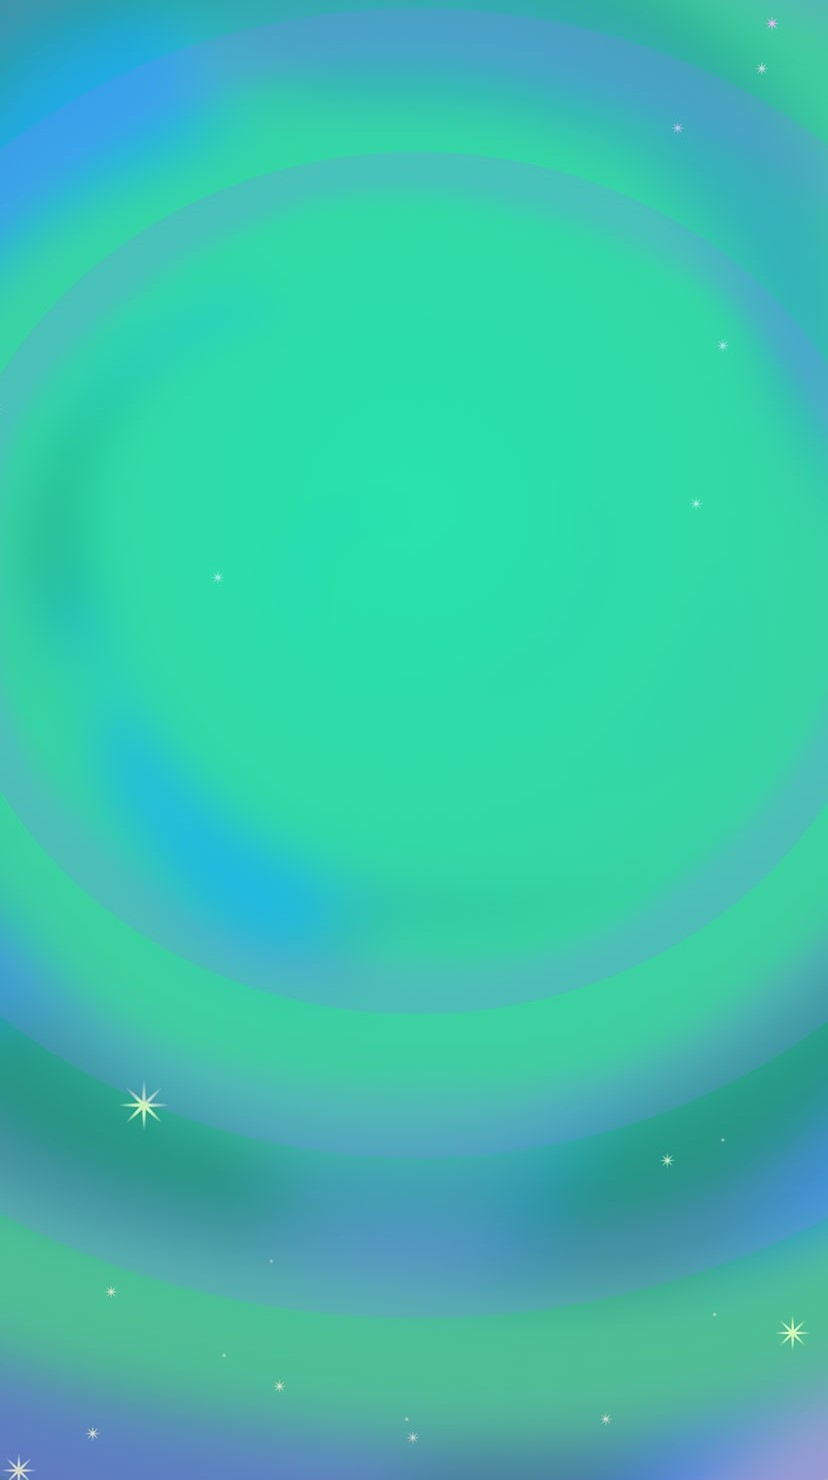
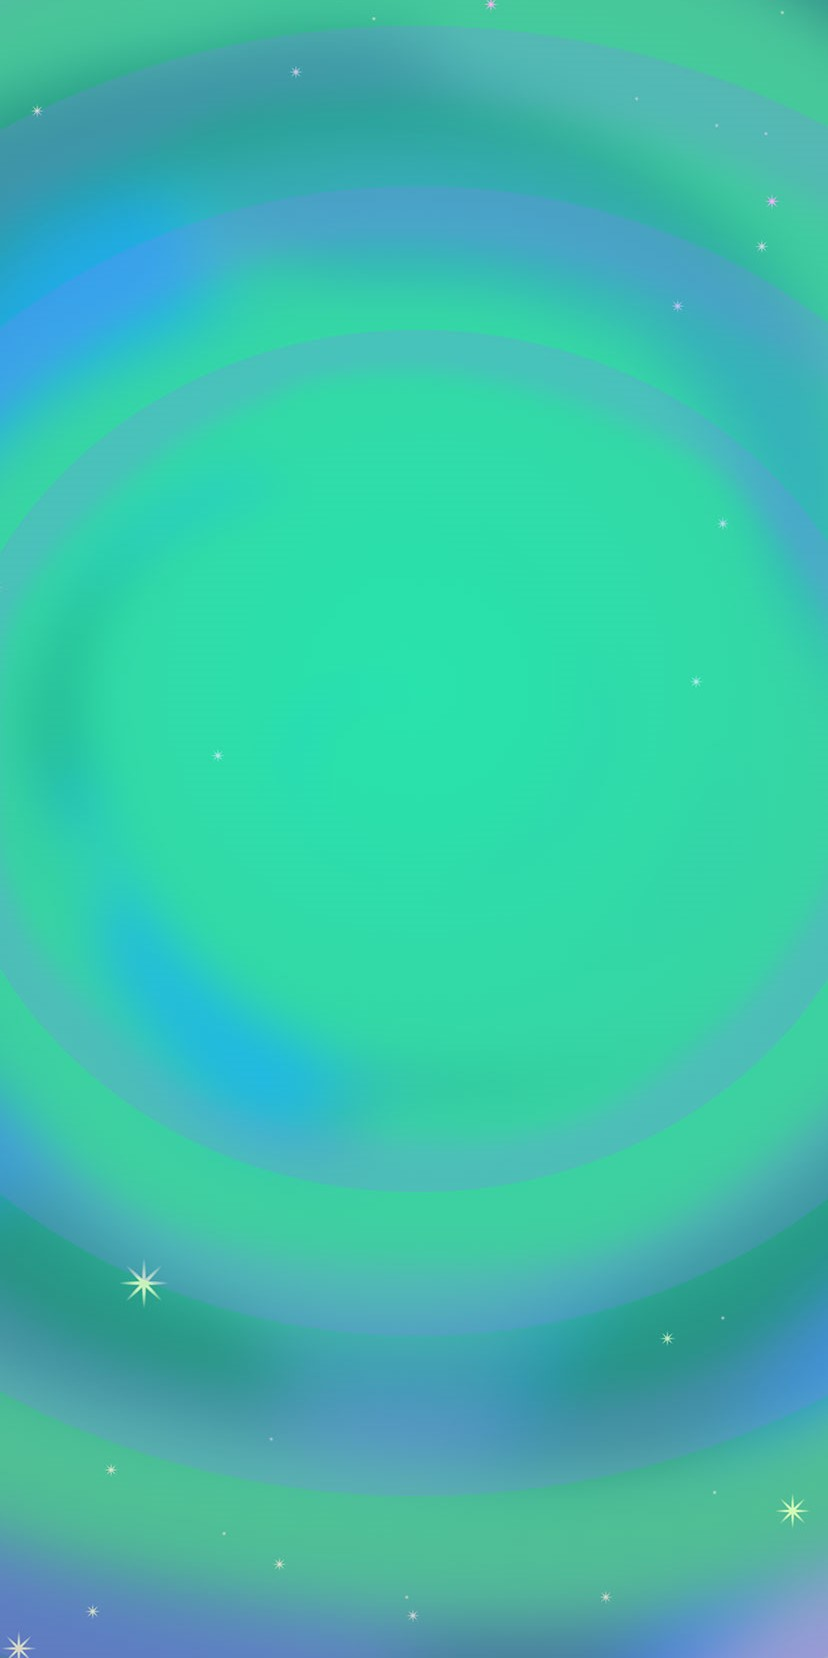
Mobile styling tweaks

diff --git a/index.css b/index.css
@@ -24,7 +24,6 @@
     background-position: center, center;
     background-image: url(images/bg-img.jpg);
     background-attachment: fixed;
-    background-color: blue;
     font-family: "Rubik" !important;
     font-weight: 400;
     height: -webkit-fill-available;
@@ -218,14 +217,17 @@
       body{
         overflow-x:hidden;
         overflow-y: scroll;
-        background-image: url(/images/mobileBG2.jpg)
+        background-image: url('/images/mobileBG2.jpg');
+        background-color: #8ff80a;
       }
 		  .logo img {
-        width: 28vw;
-        margin-top: -180px;
+        width: 98vw;
+        margin-top: -70px;
+        transition: none;
+        animation: none;
 		  }
        #continue-msg {
-    transform: translate(0%, -3000%);
+        margin-top: -220px;
     text-align: center;
     font-size: 12px;
     color: rgba(143, 248, 10,0.8);
